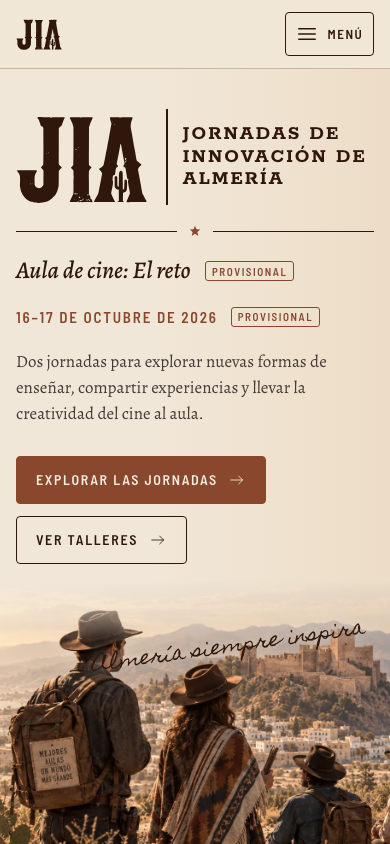
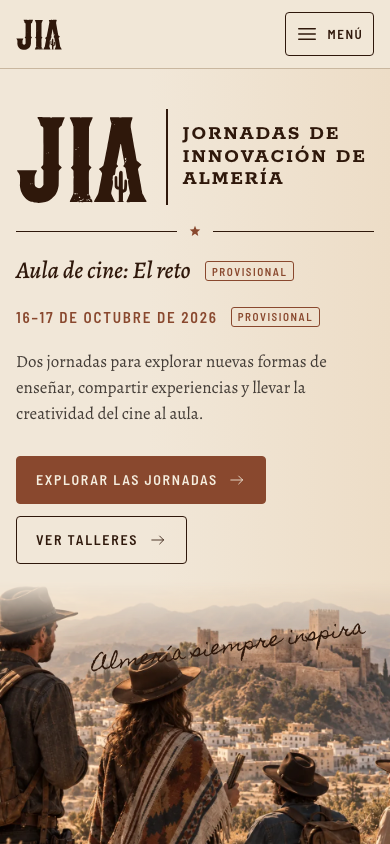
fix: hero crop free of baked-in words, single pin on empty cards, chip spacing
Also disables Next's generated AGENTS.md/CLAUDE.md (agentRules: false):
the hub governance owns those files.

Changed region(s): [[0.0, 0.6777, 1.0, 1.0]]

diff --git a/lib/content/media.ts b/lib/content/media.ts
@@ -20,7 +20,7 @@ export type Media = {
 };
 
 const HERO_RATIO = 1672 / 941;
-const HERO_CROP_RATIO = 1321 / 941;
+const HERO_CROP_RATIO = 1021 / 941;
 const POSTER_RATIO = 1414 / 2000;
 
 function poster(n: number): Media {
@@ -58,11 +58,11 @@ export const MEDIA: Record<string, Media> = Object.fromEntries(
       id: "hero-1",
       variants: [
         { src: "/hero/hero-almeria-docentes-crop-960.webp", width: 960 },
-        { src: "/hero/hero-almeria-docentes-crop-1321.webp", width: 1321 },
+        { src: "/hero/hero-almeria-docentes-crop-1021.webp", width: 1021 },
       ],
       ratio: HERO_CROP_RATIO,
-      focal: { x: 80, y: 42 },
-      original: "assets/images-website/hero-almeria-docentes.png (crop 79% from the left)",
+      focal: { x: 50, y: 42 },
+      original: "assets/images-website/hero-almeria-docentes.png (crop 1021x941+300+0)",
       license: "Imagen generada para el proyecto (ver JIA_IDENTIDAD_VISUAL.md §8)",
     },
     {
@@ -80,11 +80,11 @@ export const MEDIA: Record<string, Media> = Object.fromEntries(
       id: "hero-2",
       variants: [
         { src: "/hero/hero-2-almeria-docentes-crop-960.webp", width: 960 },
-        { src: "/hero/hero-2-almeria-docentes-crop-1321.webp", width: 1321 },
+        { src: "/hero/hero-2-almeria-docentes-crop-1021.webp", width: 1021 },
       ],
       ratio: HERO_CROP_RATIO,
-      focal: { x: 58, y: 42 },
-      original: "assets/images-website/hero-2-almeria-docentes.png (crop 79% from the left)",
+      focal: { x: 50, y: 42 },
+      original: "assets/images-website/hero-2-almeria-docentes.png (crop 1021x941+300+0)",
       license: "Imagen generada para el proyecto (ver JIA_IDENTIDAD_VISUAL.md §8)",
     },
     {

diff --git a/components/site/Hero.module.css b/components/site/Hero.module.css
@@ -125,7 +125,7 @@
     aspect-ratio: 4 / 3 !important;
     mask-image: linear-gradient(to bottom, transparent 0%, black 22%);
   }
-  .surface img { object-position: 70% 45% !important; }
+  .surface img { object-position: 55% 45% !important; }
   .note { top: 18%; right: 6%; }
   .hero { display: grid; }
 }

diff --git a/next.config.ts b/next.config.ts
@@ -12,6 +12,8 @@ const nextConfig: NextConfig = {
   devIndicators: false,
   trailingSlash: true,
   images: { unoptimized: true },
+  // Next 16 writes its own AGENTS.md / CLAUDE.md on `next dev`; the hub governance owns those files.
+  agentRules: false,
   turbopack: { root: import.meta.dirname },
 };
 

diff --git a/components/primitives/SheetCard.module.css b/components/primitives/SheetCard.module.css
@@ -30,6 +30,8 @@
   transform: translateX(-50%);
   z-index: 2;
 }
+/* An empty parchment surface brings its own pin (Surface.module.css); do not paint two. */
+.media:has([data-empty])::before { display: none; }
 .reveal {
   position: absolute;
   inset: auto 0 0 0;

diff --git a/components/site/Jornadas.module.css b/components/site/Jornadas.module.css
@@ -234,6 +234,10 @@
 }
 .hint {
   margin: 0 0 1.75rem;
+  display: flex;
+  flex-wrap: wrap;
+  align-items: center;
+  gap: 0.5rem;
   font-family: var(--f-ui);
   font-size: 0.9375rem;
   color: var(--jia-text-muted);
